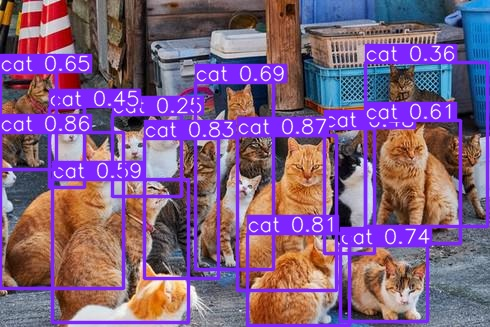
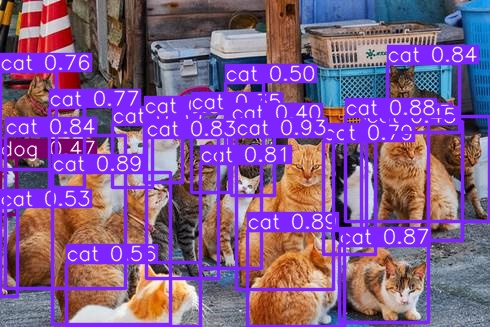
Cap nhat code va chan file mo hinh YOLO

diff --git a/detect.py b/detect.py
@@ -1,6 +1,6 @@
 from ultralytics import YOLO
 
-model = YOLO("yolov8n.pt")
+model = YOLO("yolov8x.pt")
 
 results = model("cats.jpg")
 
